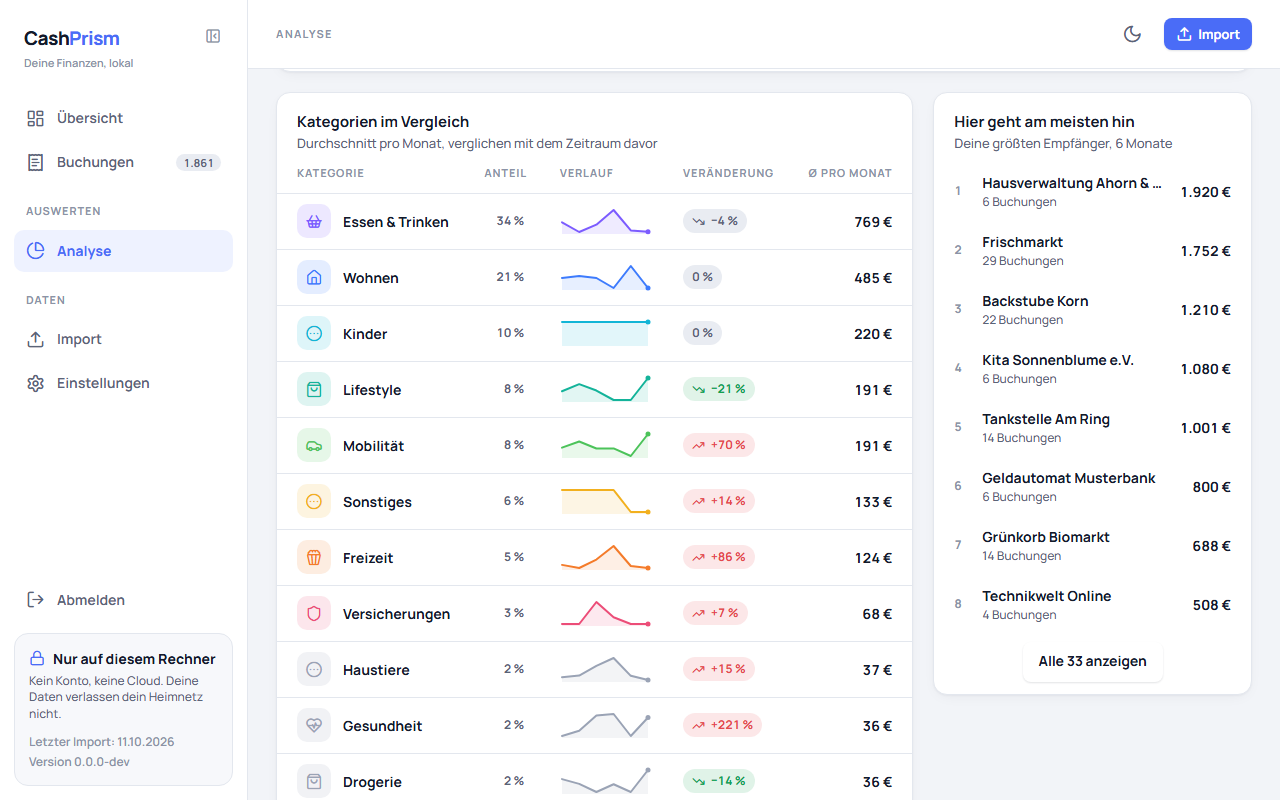
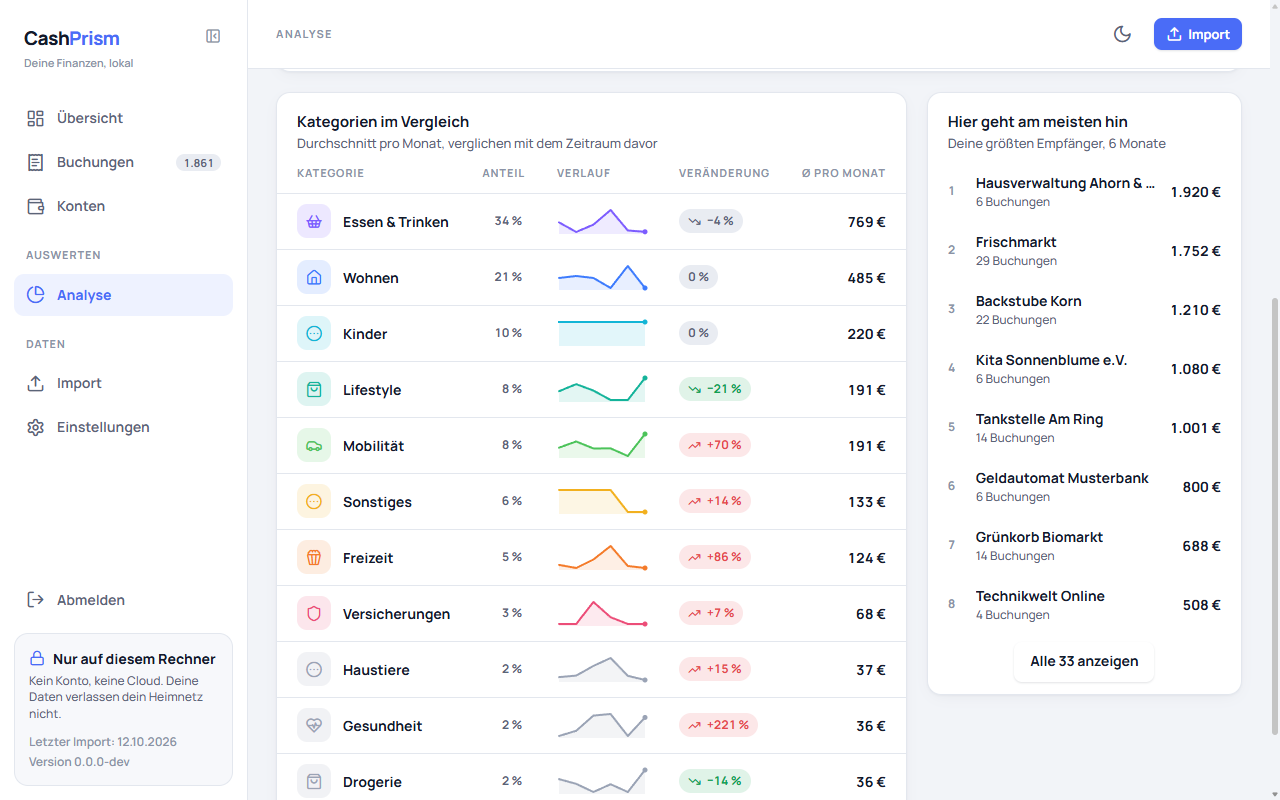
docs: describe the accounts page (#168)
- Record where Kontostand gives the balance
- Describe the accounts page and overview tile
- Retake the guide images with the new navigation
- Add a changelog entry

diff --git a/docs/benutzung.md b/docs/benutzung.md
@@ -242,16 +242,17 @@ Symbolen ein und wieder auf.
 |---|---|---|
 | Übersicht | `/` | Einnahmen, Ausgaben und wofür das Geld ging — siehe [Die Übersicht](#die-übersicht) |
 | Buchungen | `/bookings` | Alle gespeicherten Buchungen als Liste |
+| Konten | `/accounts` | Deine Konten mit ihren Kontoständen — siehe [Die Konten](#die-konten) |
 | Analyse | `/analysis` | Ausgaben nach Kategorie über mehrere Monate verglichen, dazu nach Empfänger — siehe [Die Analyse](#die-analyse) |
 | Import | `/import` | Einen Finanzguru-Export einlesen, darunter die bisherigen Importe |
 | Einstellungen | `/settings` | Alle gespeicherten Daten löschen, sehen, unter welcher Adresse CashPrism erreichbar ist, Passwort ändern |
 
-Solange nichts importiert ist, zeigen *Übersicht*, *Buchungen* und *Analyse* statt
+Solange nichts importiert ist, zeigen *Übersicht*, *Buchungen*, *Konten* und *Analyse* statt
 leerer Zahlen einen Hinweis und eine Schaltfläche zur Seite *Import*.
 
 ## Die Übersicht
 
-![Die Übersicht mit drei Kacheln, dem Diagramm Einnahmen und Ausgaben und dem Ring Wofür ging dein Geld?](images/benutzung/uebersicht.png)
+![Die Übersicht mit vier Kacheln, dem Diagramm Einnahmen und Ausgaben und dem Ring Wofür ging dein Geld?](images/benutzung/uebersicht.png)
 
 Die Übersicht rechnet vom Datum des jüngsten Exports aus, nicht vom heutigen
 Tag. Der Monat, in dem der Export gezogen wurde, läuft noch; der Monat davor
@@ -268,6 +269,8 @@ Kategorie in einem Monat als Einnahme erscheinen, etwa *Sparen* bei einer
 Auszahlung oder *Finanzen* bei einer Steuererstattung. Ob Finanzguru eine
 Buchung vom frei verfügbaren Einkommen ausnimmt, spielt hier keine Rolle.
 
+- **Vermögen auf allen Konten:** die erste Kachel. Sie zählt die Kontostände
+  aller [Konten](#die-konten) zusammen, ein Kredit mit seinem Minus.
 - **Kacheln:** *Einnahmen*, *Ausgaben* und was *übrig geblieben* ist, jeweils im
   letzten vollständigen Monat und auf den Cent. Darunter steht die Veränderung
   gegenüber dem Monat davor — bei Einnahmen und Ausgaben in Prozent, beim
@@ -537,6 +540,41 @@ Filtern und steht wie sie in der Adresse, etwa `/bookings?q=rewe`.
   400 €.
 - Was sich nicht als Betrag lesen lässt, etwa `>abc` oder `>1.000,00` mit
   Tausenderpunkt, wird als Wort gesucht.
+
+## Die Konten
+
+![Die Konten: links die Kontokarten, das ausgewählte Konto blau, rechts sein Kontostand und seine letzten Buchungen](images/benutzung/konten.png)
+
+*Konten* zeigt jedes Konto aus deinem Finanzguru-Export mit seinem Kontostand.
+Darüber steht, wo deine Konten zusammen stehen, etwa *Deine 7 Konten stehen
+zusammen bei 25.446,00 €*. Ein Kredit zählt mit seinem Minus, die Summe kann
+also negativ sein.
+
+- **Kontokarten:** links, das höchste Guthaben oben. Jede Karte zeigt den Namen
+  des Kontos, wie Finanzguru ihn führt, die letzten vier Stellen der IBAN, etwa
+  `•••• 2051`, und den Kontostand. Ein Klick wählt das Konto aus; die
+  ausgewählte Karte ist blau. Die Auswahl steht in der Adresse, ein Lesezeichen
+  öffnet also dasselbe Konto.
+- **Das ausgewählte Konto:** rechts, mit Kontostand und dem Tag der letzten
+  Buchung. Darunter stehen seine 30 neuesten Buchungen nach Tagen; ein Klick
+  öffnet die [Details einer Buchung](#die-buchungsliste). *Alle Buchungen
+  dieses Kontos* öffnet die Buchungsliste auf dieses Konto gefiltert.
+
+**Woher der Kontostand kommt:** aus dem Export, so wie Finanzguru ihn am Tag
+des Exports zeigt. CashPrism rechnet nichts nach und nimmt den Stand des
+neuesten Exports, auch wenn du danach einen älteren importierst.
+
+**Was fehlt:**
+
+- **Konten ohne Buchung.** Der Export beschreibt ein Konto nur über seine
+  Buchungen. Ein Konto, das in Finanzguru zu sehen ist, aber im Export keine
+  einzige Buchung hat, erscheint hier nicht, und sein Kontostand fehlt in der
+  Summe.
+- **Der Name der Bank.** Der Export enthält ihn nicht.
+- **Kontostände aus früheren Importen.** CashPrism liest den Kontostand beim
+  Import. Hast du vor dieser Version importiert, erscheinen die Konten mit dem
+  nächsten neuen Export. Denselben Export noch einmal zu importieren reicht
+  nicht, er wird als bereits importiert erkannt.
 
 ## Bisherige Importe
 

diff --git a/docs/ui.md b/docs/ui.md
@@ -20,8 +20,8 @@ Four of those earn a sentence:
 - **The wordmark is two-tone**: `Cash` in the text colour, `Prism` in the
   accent. It is the one place the product name appears, so it is also the one
   place a mark is needed.
-- **The destinations are grouped where a group exists.** The start page and the
-  bookings stand at the top; the analysis sits under *Auswerten*; the import,
+- **The destinations are grouped where a group exists.** The start page, the
+  bookings and the accounts stand at the top; the analysis sits under *Auswerten*; the import,
   which brings data in, and the settings, which delete it again, sit under
   *Daten*. A heading is written wherever the section changes in
   `NavigationItems`, so a section with no destination yet simply does not
@@ -361,6 +361,49 @@ close button and a click on the dimmed page close it, and the focus goes back
 to the row it was opened from — a keyboard user carries on in the list where
 they left it, rather than at the top of the page. Both moves use Blazor's own
 `FocusAsync`; no script of ours is involved.
+
+## The accounts page
+
+`Pages/Accounts.razor` follows the design's *Konten* (`design/README.md` §3.3)
+as far as the data carries it: a column of account cards, and beside it the
+selected account in a card of its own. The lead names the total of all
+balances — *Deine 7 Konten stehen zusammen bei …* — in words that say where the
+accounts stand rather than what a person has, because a loan makes the total
+negative.
+
+- **The selection is part of the address**, `/accounts?account=<reference>`.
+  The cards are links, so a selection survives a reload, the back button and a
+  bookmark. Without one, or with a reference no account has, the highest
+  balance is selected.
+- **The selected card is filled with the primary colour**, as in the design.
+  Every card carries the same `wallet` tile: the design gives each account a
+  glyph and a colour by its kind, and the export does not say what kind an
+  account is. Where the design shows the bank, the card shows the masked
+  account number (`IbanMask`): `•••• 2051`, a short handle such as `Paynet` as
+  it stands.
+- **The detail card** carries the name, the masked number, the day of the
+  newest booking and the balance, and under them the account's 30 newest
+  bookings with a link to the [booking list](#the-booking-list) filtered to the
+  account. The list is `Bookings/BookingDayList.razor`, the design's short
+  transaction list: tile, party, payment reference and amount under a header
+  per day, a row opening the [booking sheet](#the-booking-sheet). It is not the
+  booking list's table — no columns, no sorting, no pages.
+- **No tab bar yet.** The design's *Überblick* tab needs the account's flows,
+  and its balance history needs a measurement first; with *Buchungen* the only
+  tab, a plain heading takes its place.
+
+The balances are what the latest export reports, taken at import — see
+[`finanzguru-export.md`](finanzguru-export.md#where-kontostand-does-give-the-balance).
+Without them the page shows an empty state pointing at the import, which is
+also what a database imported into before they were taken shows until the next
+export.
+
+The overview leads its tiles with the same total, as *Vermögen auf allen
+Konten*. The design's delta and sparkline on that tile need a balance history,
+so the tile has neither; `StatTile` takes a glyph of its own for it instead of
+the trend arrow. Four tiles stand in one row from 1400 px of window width, where
+each keeps the design's 230 px, and two by two below that. Left to fill the row
+on their own, they broke three and one beside the drawer at 1280 px.
 
 ## The import page
 

diff --git a/docs/finanzguru-export.md b/docs/finanzguru-export.md
@@ -147,6 +147,25 @@ comes close to holding. The column can be shown as what the export claims, but
 nothing may be **derived** from it: not a balance history, not a plausibility
 check on `Betrag`, not a way to detect missing rows.
 
+### Where `Kontostand` does give the balance
+
+One row per account carries the balance the Finanzguru app shows: the
+account's **topmost row whose `Buchungstag` is not after the export date**.
+Measured on the export of 2026-10-05 against a screenshot of the app taken the
+same day, that matched the app for all six accounts that have rows. The plain
+topmost row failed on one of them: its rows dated one day after the export date
+already carried their own balance.
+
+Two consequences:
+
+- The rule needs the **order of the file**. Two rows on the last day are told
+  apart by which one the export lists first, and nothing in a row says that.
+- An account the app lists **without a single row in the export** has no
+  balance here. The export only describes accounts through their bookings.
+
+This is one snapshot, not a specification. A second export that breaks it is
+worth a measurement of its own rather than a patch to the rule.
+
 ### The category catalogue
 
 Both exports carry the same 14 main categories and the same 76 pairs of main
@@ -383,6 +402,16 @@ row holds, and hands both on.
   the stored states it needs and lets go of them again, because an export always
   carries the owner's complete history and that history only grows. The change
   tracker never holds a whole file, which is where an ORM stops being quick.
+
+- **The account balances are taken from the whole file**, once the bookings
+  are written, by the rule [above](#where-kontostand-does-give-the-balance) —
+  `AccountBalanceRule` in `CashPrism.Domain`. The rule needs the file's order,
+  and the stored bookings do not keep it: an unchanged booking is not written
+  again, so row numbers of two files are never comparable. Each run therefore
+  stores one balance per account, and whatever shows balances reads those of
+  the latest run, "latest" decided as for a booking. Where the sheet name
+  carried no export date, the day of the import is the cut-off. A database
+  imported into before balances were taken has none until the next new export.
 
 What an import did is recorded on the run itself: the file name, its hash, the
 sheet name, the export date, and how many rows were read, inserted, updated and

diff --git a/CHANGELOG.md b/CHANGELOG.md
@@ -39,6 +39,12 @@ releases and the minor version is bumped for every notable change.
   the creditor ID, the mandate reference and your tags. A booking Finanzguru
   counts to a contract is marked with its interval, such as
   *Vertrag · monatlich*. Fields a booking does not have are left out.
+- A new *Konten* page lists every account from the export with its balance —
+  the balance Finanzguru shows on the day of the export — and what the accounts
+  stand at together. Selecting an account shows its newest bookings and leads
+  to the booking list filtered to it. The overview leads with the same total.
+  Balances are read at import, so after updating they appear with the next new
+  export; an account without a single booking in the export is not listed.
 
 ## [0.1.0] - 2026-10-10
 

diff --git a/docs/releasing.md b/docs/releasing.md
@@ -170,6 +170,7 @@ and show nothing but invented data:
 | `analyse.png` | *Analyse* with *6 Monate* |
 | `analyse-empfaenger.png` | *Analyse* with *6 Monate*, scrolled down so *Hier geht am meisten hin* fills the page area |
 | `buchungsliste.png` | *Buchungen* with the details of one booking open |
+| `konten.png` | *Konten* as it opens, the account with the highest balance selected |
 | `erreichbar.png` | *Einstellungen*, the address under *Erreichbar unter* replaced by `http://192.168.1.7:5080` in the browser's developer tools |
 | `alle-daten-loeschen.png` | *Einstellungen* after *Alle Daten löschen*, showing the question — not confirmed — with the address replaced as above |
 | `passwort-aendern.png` | *Passwort ändern*, empty |

diff --git a/README.md b/README.md
@@ -16,7 +16,8 @@ Your data stays with you. No cloud, no account, no signing up anywhere.
 
 - Reads Finanzguru exports (`.xlsx`)
 - Accumulates them over time instead of replacing them
-- Shows your bookings, where the money goes and how that changes over time
+- Shows your bookings, your accounts and their balances, where the money goes
+  and how that changes over time
 - Runs on Windows, Linux and macOS without an installer
 
 ## Imports accumulate
